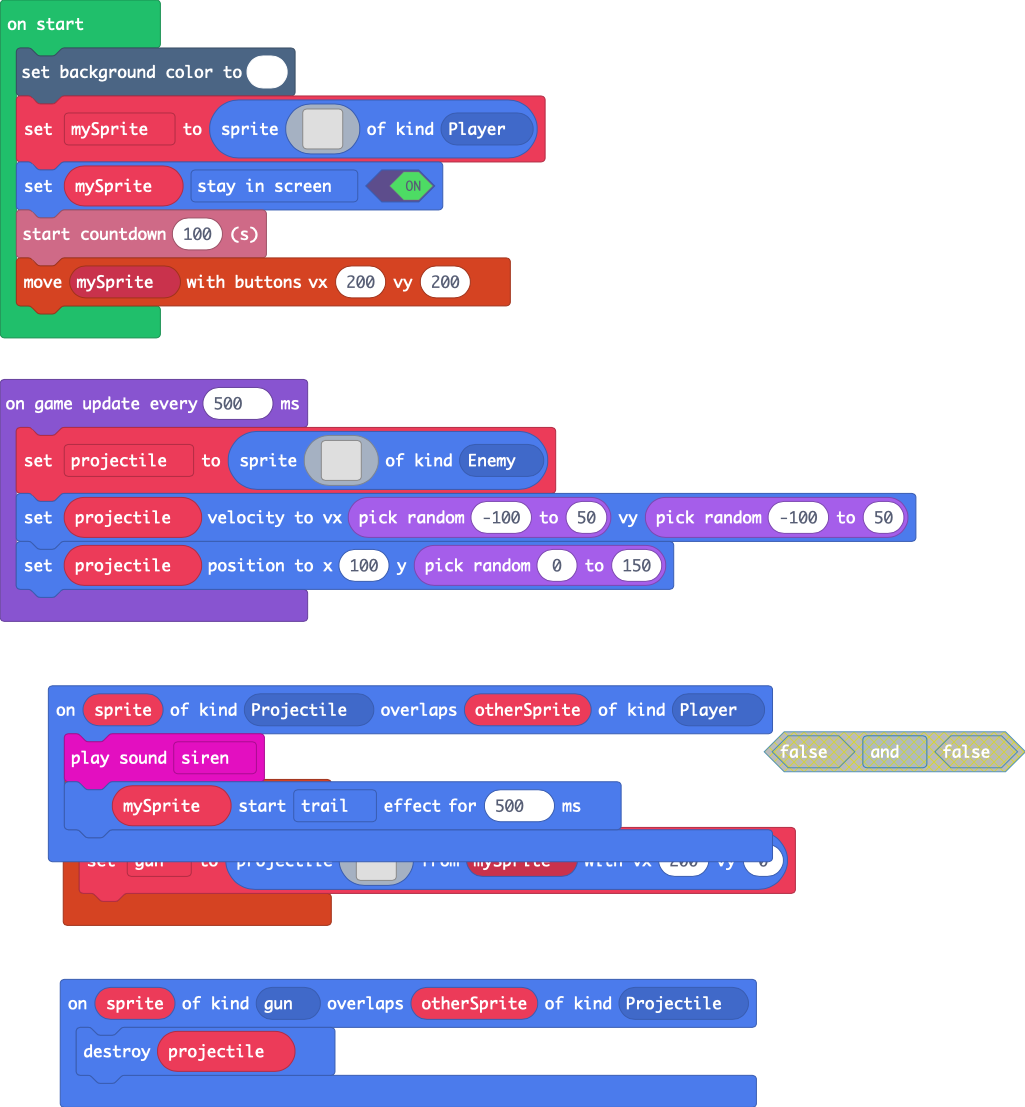
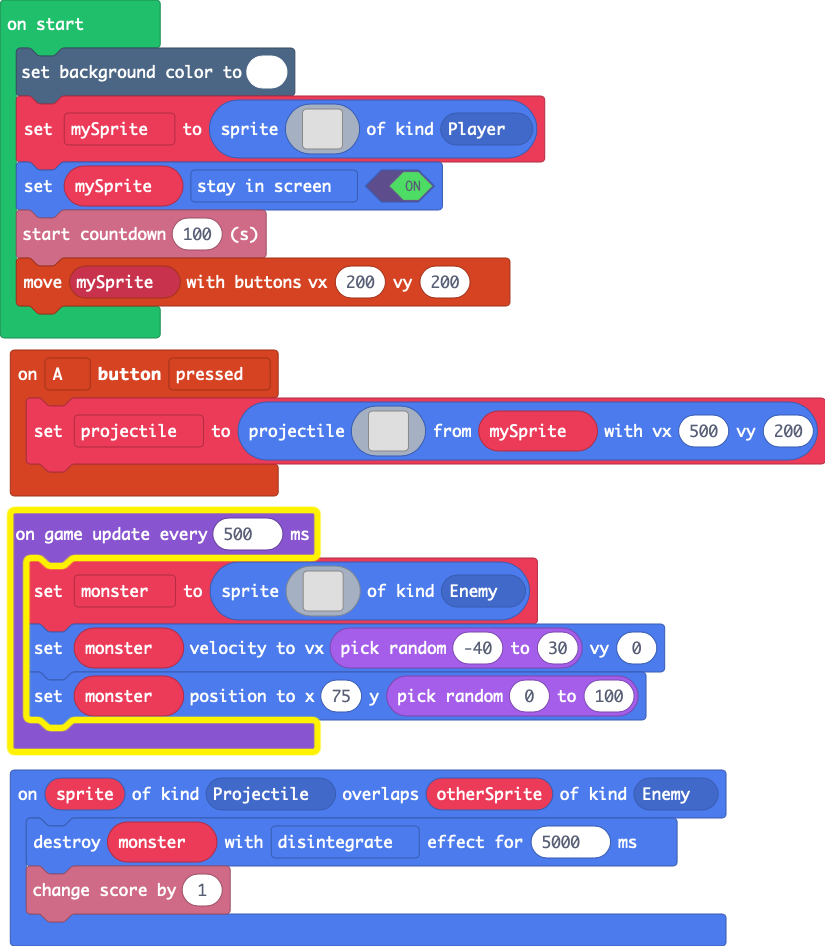
trying ti fix shooting bug

diff --git a/main.ts b/main.ts
@@ -1,35 +1,32 @@
 namespace SpriteKind {
     export const gun = SpriteKind.create()
 }
+sprites.onOverlap(SpriteKind.Projectile, SpriteKind.Enemy, function (sprite, otherSprite) {
+    monster.destroy(effects.disintegrate, 5000)
+    info.changeScoreBy(1)
+})
 controller.A.onEvent(ControllerButtonEvent.Pressed, function () {
-    gun = sprites.createProjectileFromSprite(img`
-. . . . . . . . . . . . . . . . 
-. . . . . . . . . . . . . . . . 
-5 . . . . . . . . . . . . . . . 
-. 5 . . . . . . . . . . . . . . 
-. . 5 . . . . . . . . . . . . . 
-. . . f f f f f f f 2 2 . . . . 
-5 5 5 f f f f f f f 2 2 . . . . 
-5 5 5 f f f f f f f 2 2 . . . . 
-. . . f f f f f f f 2 2 . . . . 
-. . 5 . . . . . . . . . . . . . 
-. 5 . . . . . . . . . . . . . . 
-5 . . . . . . . . . . . . . . . 
-. . . . . . . . . . . . . . . . 
-. . . . . . . . . . . . . . . . 
-. . . . . . . . . . . . . . . . 
-. . . . . . . . . . . . . . . . 
-`, mySprite, 200, 0)
-})
-sprites.onOverlap(SpriteKind.gun, SpriteKind.Projectile, function (sprite, otherSprite) {
-    projectile.destroy()
-})
-sprites.onOverlap(SpriteKind.Projectile, SpriteKind.Player, function (sprite, otherSprite) {
-    music.siren.play()
-    mySprite.startEffect(effects.trail, 500)
+    projectile = sprites.createProjectileFromSprite(img`
+. . . . . . . . . . b 5 b . . . 
+. . . . . . . . . b 5 b . . . . 
+. . . . . . b b b b b b . . . . 
+. . . . . b b 5 5 5 5 5 b . . . 
+. . . . b b 5 d 1 f 5 d 4 c . . 
+. . . . b 5 5 1 f f d d 4 4 4 b 
+. . . . b 5 5 d f b 4 4 4 4 b . 
+. . . b d 5 5 5 5 4 4 4 4 b . . 
+. b b d d d 5 5 5 5 5 5 5 b . . 
+b d d d b b b 5 5 5 5 5 5 5 b . 
+c d d b 5 5 d c 5 5 5 5 5 5 b . 
+c b b d 5 d c d 5 5 5 5 5 5 b . 
+c b 5 5 b c d d 5 5 5 5 5 5 b . 
+b b c c c d d d 5 5 5 5 5 d b . 
+. . . . c c d d d 5 5 5 b b . . 
+. . . . . . c c c c c b b . . . 
+`, mySprite, 500, 200)
 })
 let projectile: Sprite = null
-let gun: Sprite = null
+let monster: Sprite = null
 let mySprite: Sprite = null
 scene.setBackgroundColor(1)
 mySprite = sprites.create(img`
@@ -54,7 +51,7 @@ mySprite.setFlag(SpriteFlag.StayInScreen, true)
 info.startCountdown(100)
 controller.moveSprite(mySprite, 200, 200)
 game.onUpdateInterval(500, function () {
-    projectile = sprites.create(img`
+    monster = sprites.create(img`
 . . . . . . . . . . . . . . . . . . . . . . . . 
 . . . . . . . . . . . . . . . . . . . . . . . . 
 . . . . . . . . . . . . . . . . . . . . . . . . 
@@ -80,6 +77,6 @@ game.onUpdateInterval(500, function () {
 . . . . . . . . . . . . . . . . . . . . . . . . 
 . . . . . . . . . . . . . . . . . . . . . . . . 
 `, SpriteKind.Enemy)
-    projectile.setVelocity(Math.randomRange(-100, 50), Math.randomRange(-100, 50))
-    projectile.setPosition(100, Math.randomRange(0, 150))
+    monster.setVelocity(Math.randomRange(-40, 30), 0)
+    monster.setPosition(75, Math.randomRange(0, 100))
 })
